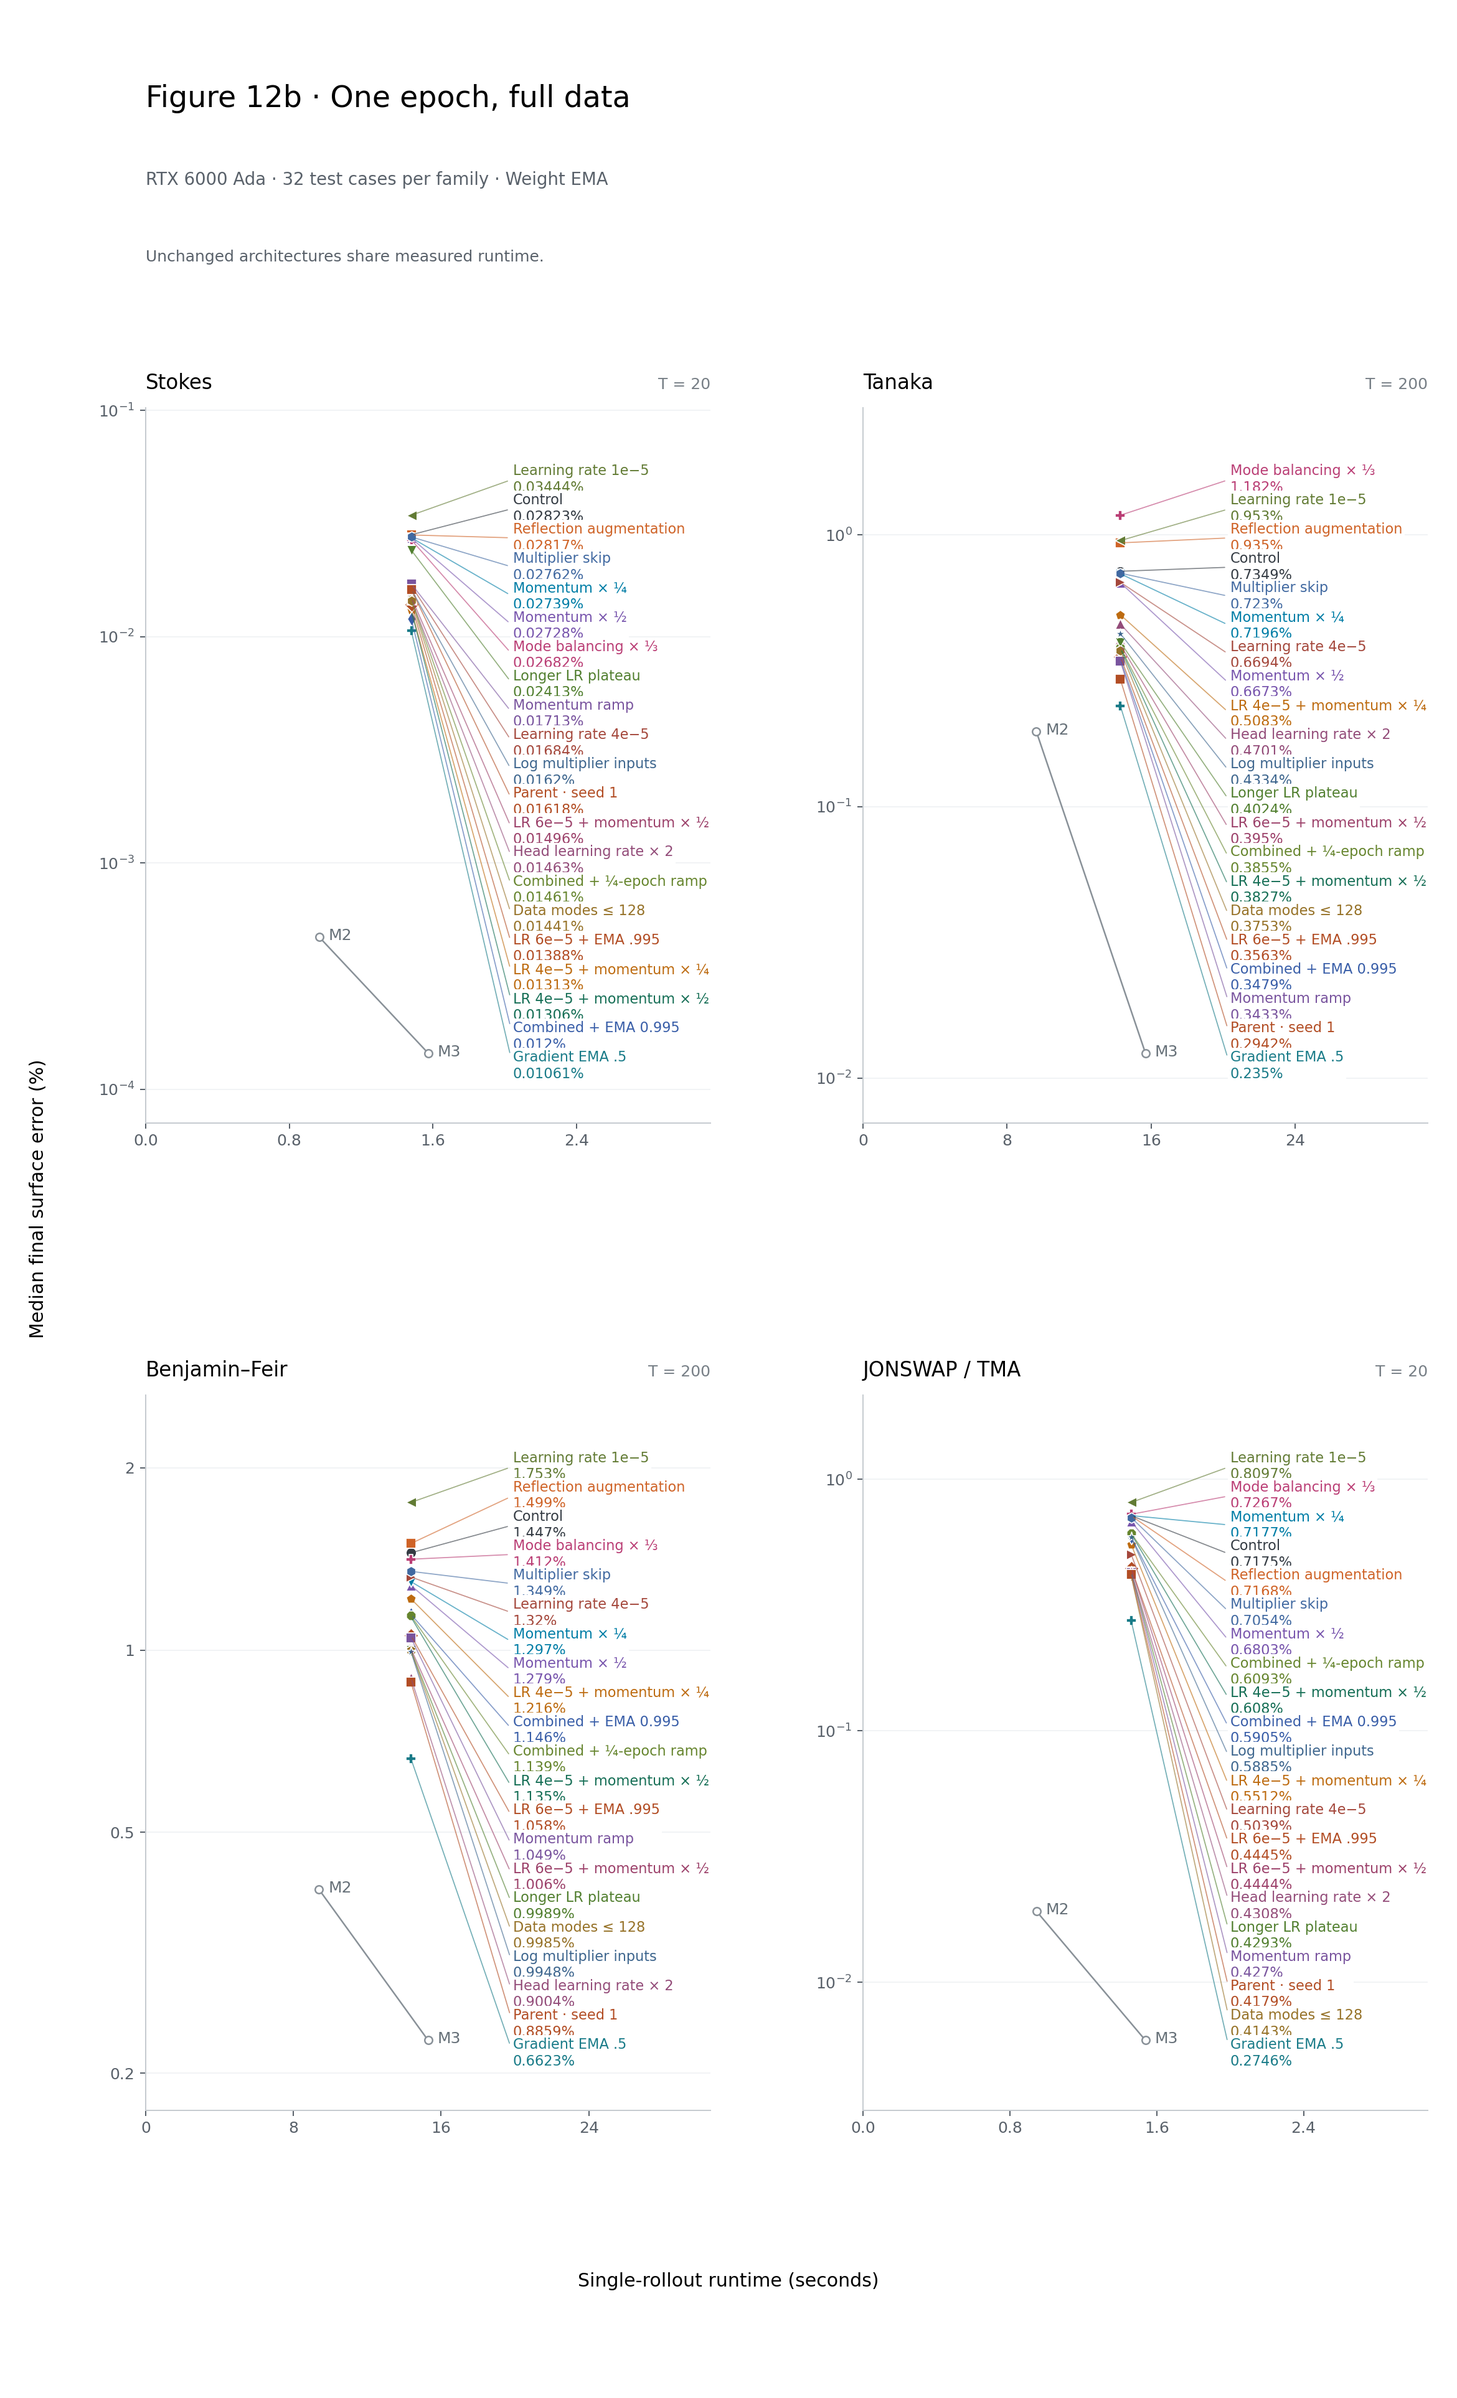
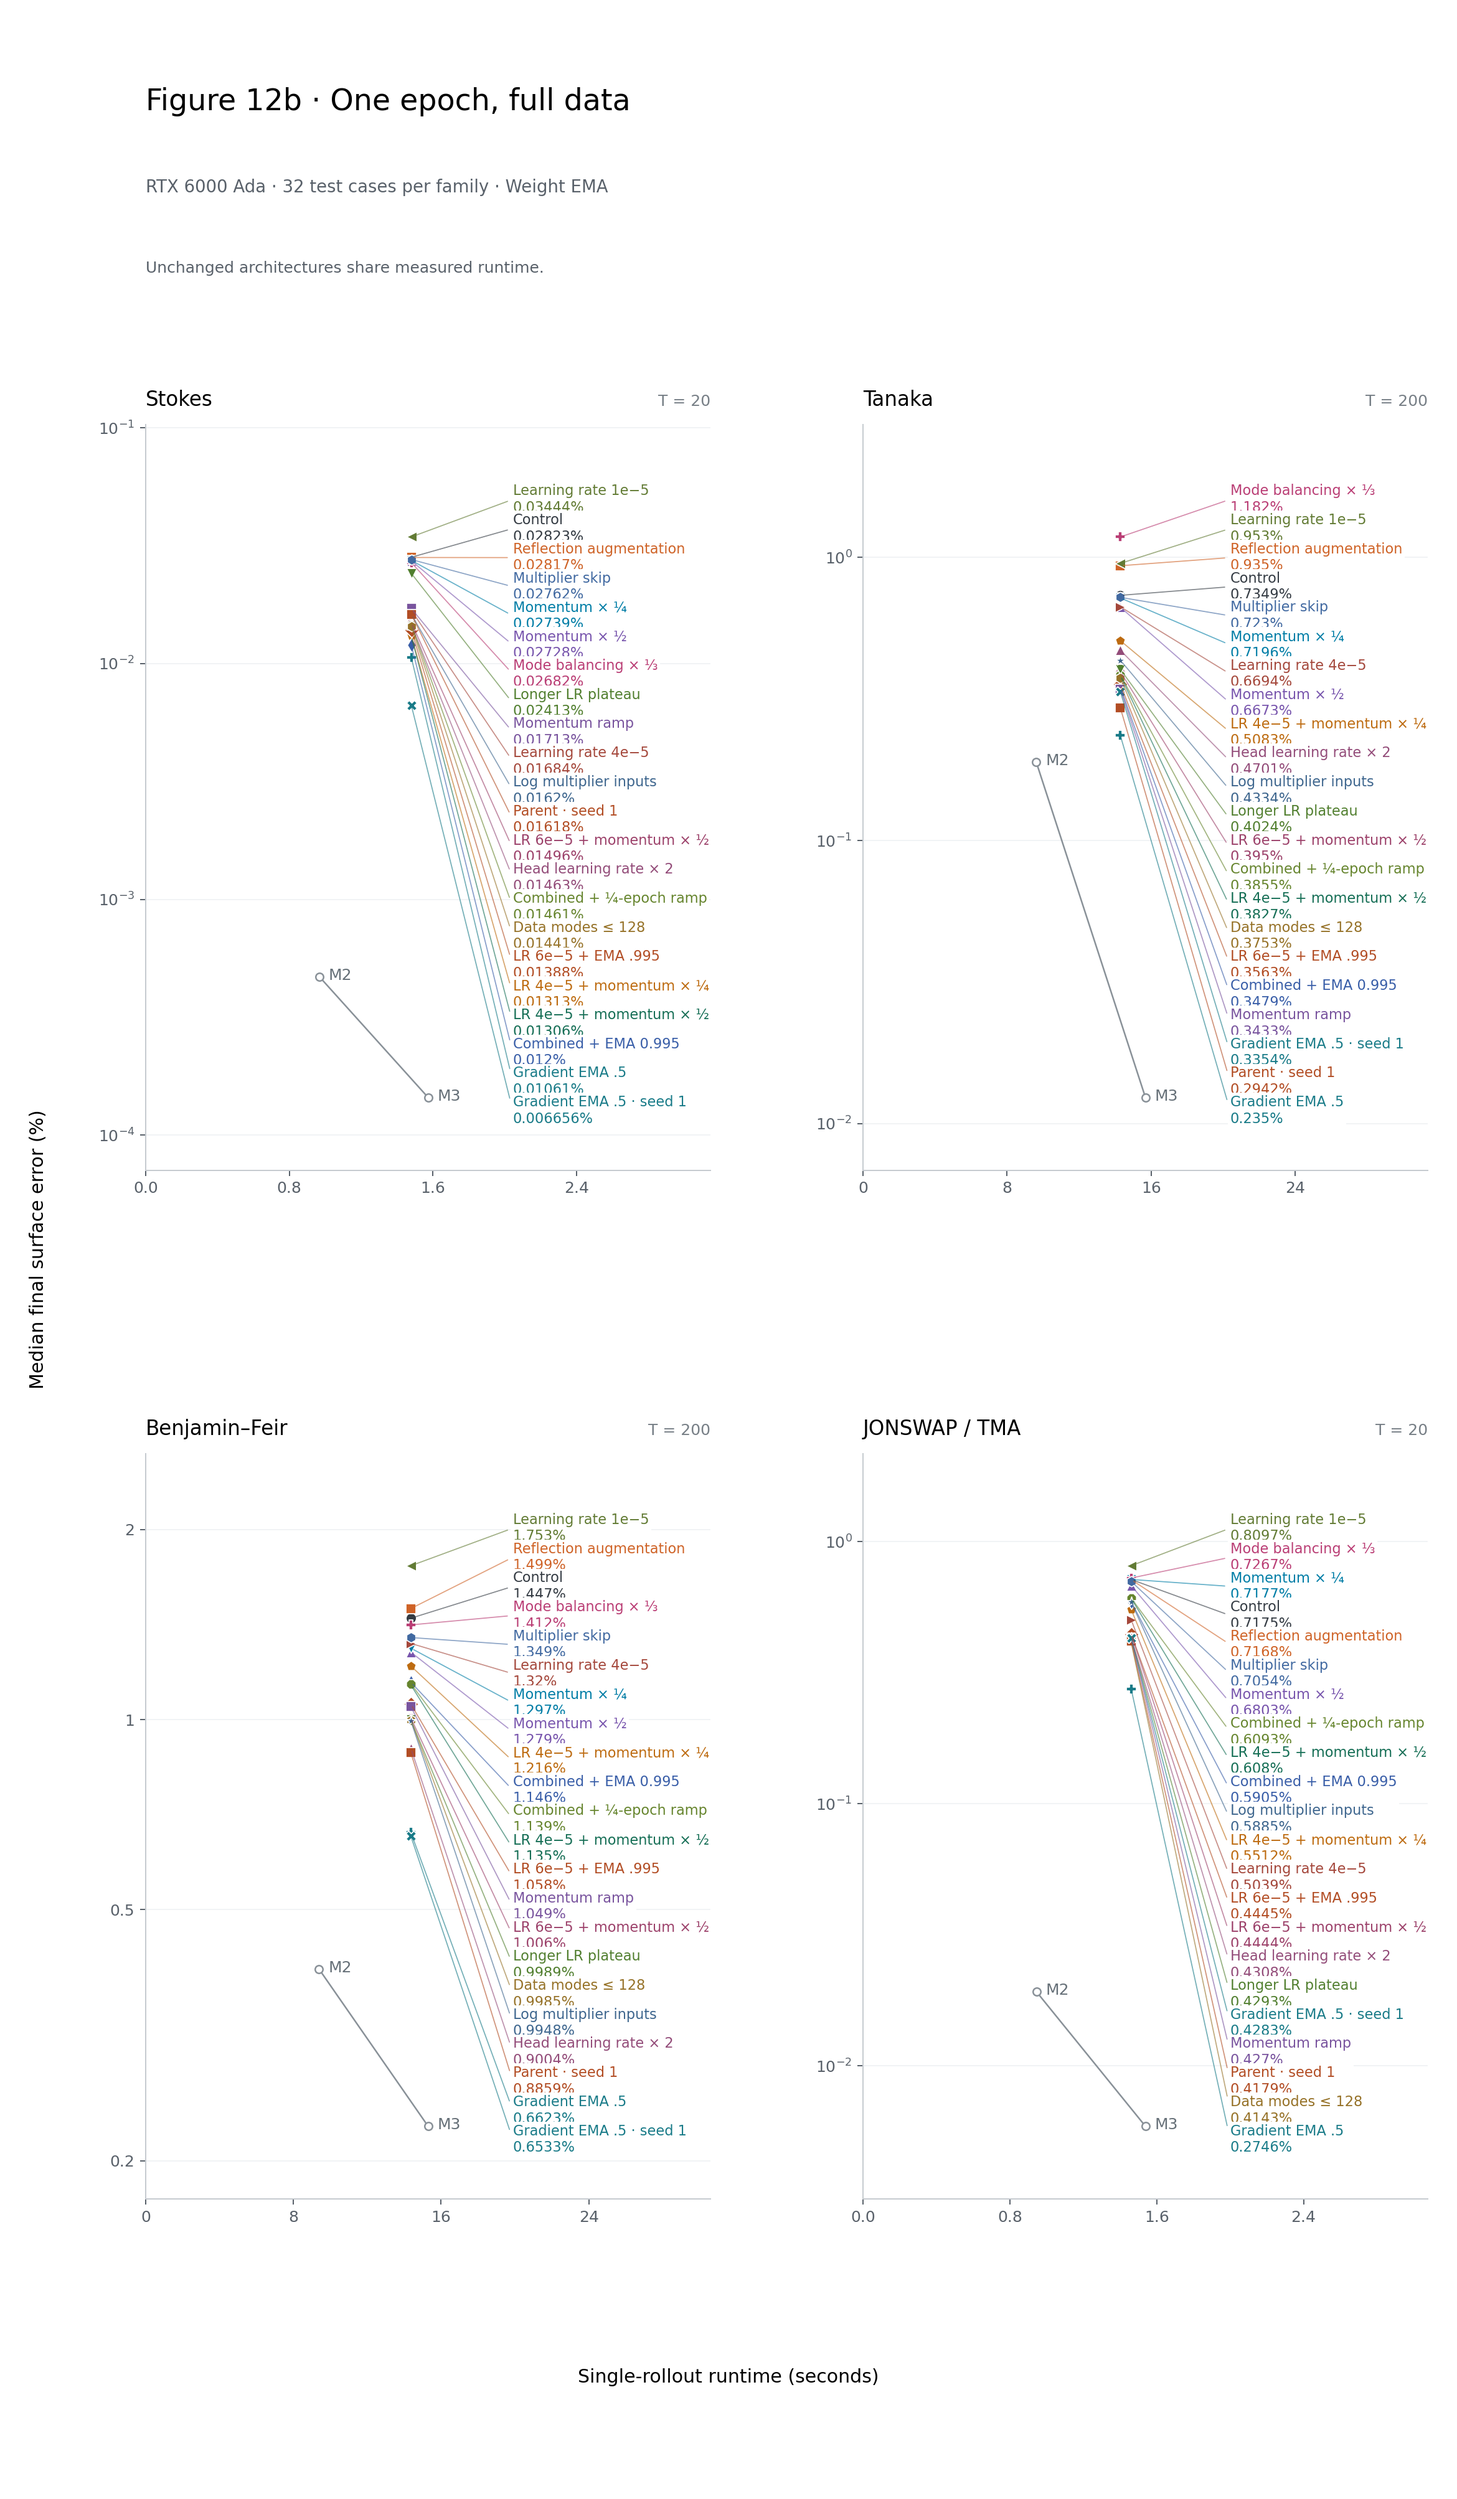
Confirm gradient EMA gain on second seed and refresh Figure 12b

diff --git a/experiments/experiments-2026-10-10.md b/experiments/experiments-2026-10-10.md
@@ -19,8 +19,8 @@
 | 2026-10-10 | 03:35 | Adam first-moment decay option, preparation | External gradient EMA and AdamW both smooth gradients; after the promising gradientEMA.5 result, reducing Adam's own directional lag separately can distinguish first-moment smoothing from changes to the squared-gradient input. | Added opt-in --adam_b1, default .9. Proposed isolated trial keeps external EMA .5 and weight EMA .995 but uses Adam b1=.5. For fixed supplied gradients, changing b1 leaves Adam's second moment and the external EMA unchanged. No model, loss or inference change. | Actual extracted optimizer tests verify exact default parity, changed first moments but identical second moments, external EMA and delayed weight-EMA initialization/updates, counters and invalid options. Existing head-LR, schedule and EMA-only rollout tests pass; Ruff/Pyright/scoped diff pass. Mean linear-filter lag would change from 10 to 2 updates; this is not measured optimizer response time. | CPU-only implementation/tests during band128 validation. Current queue retains default b1=.9; launcher untouched. | READY for an isolated follow-up after seed confirmation; no GPU experiment launched and no default change. |
 | 2026-10-10 | 03:52 | Current-model low/high DNO error attribution | The projected-target discrepancy could be a future accuracy limit without explaining present errors; compare its scale with the actual saved models before prioritizing a target change. | CPU FP64 M6 at parent and gradientEMA.5 own initial/final states, all128cases. Split q error into modes <=128 and >128, then evaluate the same dealiased Bernoulli RHS for actual q, exact M6 plus low-only error, and exact M6 plus high-only error. Low-only defect is larger in all512model/state pairs. Median terminal high-only/actual norm ratios% parent-to-candidate [S,T,BF,J]=[3.69,1.08,3.39,2.73] to[4.13,.82,4.75,3.88]. Candidate JON IDs3729077/3727676 have ratios45.5/37.3%, but restoring exact high modes reduces actual RHS error only13.5/5.0%. | All errors use same-state retained mean-zero xi_t; component norms are not additive shares. Largest normalized low/high interaction2.23e-7. Candidate retains high-q norms.00949/.00817 relative to full q6 versus exact.00998/.00890 in these two cases. Perfectly projected M6 would give larger RHS defects than the current model there. Endpoint evidence does not establish accumulated rollout contributions. | CPU-only,11.5seconds, no checkpoint restoration/GPU/files/training. Existing momentum-loss documentation already acknowledges its projected-target approximation. | Prioritize retained-band accuracy and seeded optimizer confirmation. Keep exact projected-oracle rollout as a secondary diagnostic; do not claim target filtering is the dominant current error source or overwrite labels. |
 | 2026-10-10 | 04:06 | Fixed parent, second-seed control | A same-seed control is needed to distinguish the gradientEMA.5 gain from initialization and shuffle variation. | Completed c27_phase1_lr6_momentum_half_ema995_seed1_full_20261010; only seed0-to1 differs from fixed parent. EMA median terminal eta errors% [S,T,BF,J]=[.01618481,.29415539,.88593575,.41789698], p95=[.19984816,6.82101456,1.90350047,4.09633177]. Contextually versus seed0: paired wins13/18/16/18 (65/128), pooled geometric ratio.90984. Retained P128 initial DNO medians% [.00130062,.01487489,.00377260,.02758518], paired ratio1.00981 and55/128wins versus seed0; these are32 rollout initial states/family, not full validation. | Saved config verifies fresh seed1/full-data1epoch, LR6e-5, gradientEMA.9/weightEMA.995, half momentum, original/generated losses and other flags unchanged. All128 finite/reference-valid, ordered IDs exactly match seed0, zero >25% failures. Worst Tanaka3687197:21.31439%. Initial truth q matches exactly. Better rollout aggregate despite slightly worse initial-DNO aggregate illustrates seed variability, not a treatment effect. | Local GPU0 training/evaluation04:13–04:36,40%memory cap, tmux dno-grad-ema-followups-gpu0-20261010; log outputs/phase1_grad_ema_followups_queue_20261010.log. Console train loop rounds to00:13. GPU1/cloud untouched; no new inference timing. | COMPLETE; use as the matched seed1 control. Compare candidate withinseed before assessing consistency with seed0; do not interpret this seed change as an optimizer gain. |
-| 2026-10-10 | 04:06 | GradientEMA.5, second-seed confirmation | Seed0 improved all four medians and95/128 paired cases; an independent training seed tests whether this broad gain persists. | Started c27_phase1_lr6_momentum_half_ema995_grad05_seed1_full_20261010 at04:36. Relative to seed1 fixed-parent control, only gradientEMA.9-to.5 changes. Same LR6e-5, half momentum, weightEMA.995, model and original/generated losses. Fresh seed1 model/optimizer, full train/validation, B1024, exactly1epoch, then128 EMA-only rollouts. | Saved config differs from seed1 control only in gradient_ema_decay and run_name. Model initialization and shuffled rows match control; generated teacher states may diverge as the models learn. Judge within-seed comparison and agreement with seed0, not candidate seed1 versus control seed0 or256 independent training replicates. | Started04:36 second in tmux dno-grad-ema-followups-gpu0-20261010, local GPU0/40%cap; trainer1047677 and19866MiB allocation verified. Log outputs/phase1_grad_ema_followups_queue_20261010.log. GPU1/cloud untouched; unchanged inference graph. | RUNNING; confirm broad paired improvement while checking Tanaka p95 and threshold failures. |
-| 2026-10-10 | 04:06 | GradientEMA.25, isolated decay screen | Reducing external smoothing from.9 to.5 improved all family medians; a further reduction tests whether directional responsiveness continues to help or loses useful smoothing. | Queued c27_phase1_lr6_momentum_half_ema995_grad025_full_20261010. Only gradientEMA decay changes to.25 from fixed parent; compare also with completed seed0 .5 candidate. Retain weightEMA.995, Adam b1=.9, LR6e-5, half momentum, model and all losses. Fresh seed0, full train/validation, B1024, exactly1epoch, then128 EMA-only rollouts. | No head scaling, log inputs, band cutoff, LR hold or momentum ramp. Both EMAs remain active; same evaluation cases and budget isolate the external decay. | Queued04:13 third in tmux dno-grad-ema-followups-gpu0-20261010, local GPU0/40%cap; log outputs/phase1_grad_ema_followups_queue_20261010.log. GPU1/cloud untouched; no new inference graph or timing. | QUEUED; require improvement beyond the .5 candidate without new tail failures. |
+| 2026-10-10 | 04:06 | GradientEMA.5, second-seed confirmation | Seed0 improved all four medians and95/128 paired cases; an independent training seed tests whether this broad gain persists. | Completed c27_phase1_lr6_momentum_half_ema995_grad05_seed1_full_20261010; only gradientEMA.9-to.5 differs from seed1 control. EMA median terminal eta errors% [S,T,BF,J]=[.00665587,.33543815,.65333123,.42827882], p95=[.24955857,4.74534258,1.15542549,3.33805140]. Within-seed wins18/20/30/24 (92/128), family geometric ratios.79766/.93195/.64658/.91659, pooled.81471 (18.5% lower). Initial P128 DNO medians% [.00080164,.01305262,.00237104,.02354466],103/128wins and paired ratio.78659; these cover32 rollout initial states/family, not full validation. | Saved configs differ only gradient_ema_decay/run_name; fresh seed1/full-data1epoch and all other choices unchanged. All128 finite/reference-valid, exact matching ordered IDs, zero >25% failures. Worst Tanaka3687197 improves21.31439-to8.65619%. Tanaka/JON medians worsen14.0/2.5% and Stokes p95 worsens.19985-to.24956%; other p95 values improve. Initial DNO medians improve in every family, but Stokes initial-DNO p95 slightly worsens. Generated teacher states can differ; two training seeds are not256 independent training replicates. | Local GPU0 training/evaluation04:36–04:58,40%cap, tmux dno-grad-ema-followups-gpu0-20261010; log outputs/phase1_grad_ema_followups_queue_20261010.log. Console train loop rounds to00:13. GPU1/cloud untouched; unchanged inference graph. | COMPLETE, CONFIRMED BROAD PAIRED GAIN; pooled rollout and initial-DNO improvements reproduce across two seeds (.81471/.78659 here versus.70007/.77338 at seed0). Use gradientEMA.5 as the confirmed follow-up base, without claiming every family statistic improves; leave already-queued isolated arms unchanged. |
+| 2026-10-10 | 04:06 | GradientEMA.25, isolated decay screen | Reducing external smoothing from.9 to.5 improved all family medians; a further reduction tests whether directional responsiveness continues to help or loses useful smoothing. | Started c27_phase1_lr6_momentum_half_ema995_grad025_full_20261010 at04:58. Only gradientEMA decay changes to.25 from fixed parent; compare also with completed seed0 .5 candidate. Retain weightEMA.995, Adam b1=.9, LR6e-5, half momentum, model and all losses. Fresh seed0, full train/validation, B1024, exactly1epoch, then128 EMA-only rollouts. | Saved config verifies the only functional difference from fixed parent is gradientEMA.25; newly recorded options are inactive defaults. No head scaling, log inputs, band cutoff, LR hold or momentum ramp. Both EMAs remain active; same evaluation cases and budget isolate the external decay. | Started04:58 third in tmux dno-grad-ema-followups-gpu0-20261010, local GPU0/40%cap; trainer1058086 and19866MiB allocation verified. Log outputs/phase1_grad_ema_followups_queue_20261010.log. GPU1/cloud untouched; no new inference graph or timing. | RUNNING; require improvement beyond the .5 candidate without new tail failures. |
 | 2026-10-10 | 04:06 | GradientEMA.5 plus head learning rate x2 | Head scaling markedly reduced Tanaka's tail under gradientEMA.9 but did not improve aggregate accuracy; combine it with the broadly better .5 recipe to test whether the benefits coexist. | Queued c27_phase1_lr6_momentum_half_ema995_grad05_head2_full_20261010. Relative to completed seed0 gradientEMA.5 candidate, only --surface_head_lr_multiplier2 changes. WeightEMA.995, Adam b1=.9, LR6e-5, half momentum, model and all original/generated losses unchanged. Fresh seed0, full train/validation, B1024, exactly1epoch, then128 EMA-only rollouts. | Existing optimizer regression verifies only cs_block_*/phi_proj/kernel final updates are scaled; other updates/moments are unchanged and weightEMA tracks the actual updated parameters. No warm start or inference change. | Queued04:13 fourth in tmux dno-grad-ema-followups-gpu0-20261010, local GPU0/40%cap; log outputs/phase1_grad_ema_followups_queue_20261010.log. GPU1/cloud untouched; no new latency measurement. | QUEUED; compare with .5 alone, checking its broad accuracy gains and whether Tanaka p95/max improve. |
 | 2026-10-10 | 04:06 | GradientEMA.5 plus Adam first-moment decay .5 | External gradientEMA and Adam both smooth update directions; reducing Adam's lag separately tests whether the .5 candidate still suffers excess first-moment smoothing. | Queued c27_phase1_lr6_momentum_half_ema995_grad05_adam05_full_20261010. Relative to completed seed0 gradientEMA.5 candidate, only --adam_b1.5 changes. WeightEMA.995, LR6e-5, half momentum, model and all original/generated losses unchanged. Fresh seed0, full train/validation, B1024, exactly1epoch, then128 EMA-only rollouts. | Actual optimizer tests verify default parity and changed first moments with unchanged external EMA/second moments for fixed supplied gradients; delayed weightEMA and counters are preserved. No head scaling or other experimental flags. | Queued04:13 fifth in tmux dno-grad-ema-followups-gpu0-20261010, local GPU0/40%cap; log outputs/phase1_grad_ema_followups_queue_20261010.log. GPU1/cloud untouched; no model/inference change or new timing. | QUEUED; compare paired accuracy and tails with .5 alone before accepting reduced Adam smoothing. |
 | 2026-10-10 | 04:14 | Cached physical evaluator parity diagnostic | Caching only fixed-depth multipliers could reduce repeated evaluation work while retaining native normalization, precision and the generic integrator. | Ran the cached variant of /tmp/dno_optimized_eval_parity.py against saved fixed-parent EMA trajectories. Stokes, Tanaka and JONSWAP eta/xi/q are exactly equal at every saved frame. Benjamin-Feir eta max relative difference1.2950934e-5 exceeds the1e-5cap; max absolute difference7.020194e-7. Terminal BF median eta error changes1.0581133-to1.0581007%. Saved log outputs/cached_eval_parity_20261010.log. | Same initial conditions, depths, saved times and full horizons; finite/failure masks agree. Stopped at the BF eta failure before checking BF xi/q or measuring matched warm timings. Small aggregate error change does not override the unchanged field-level tolerance. | GPU0 diagnostic04:06–04:13 after the prior queue exited; GPU1/cloud untouched. New serial training queue started04:13 after this process exited. | COMPLETE, REJECT evaluator change; generic EMA rollout evaluator remains unchanged and no speedup is established. |
